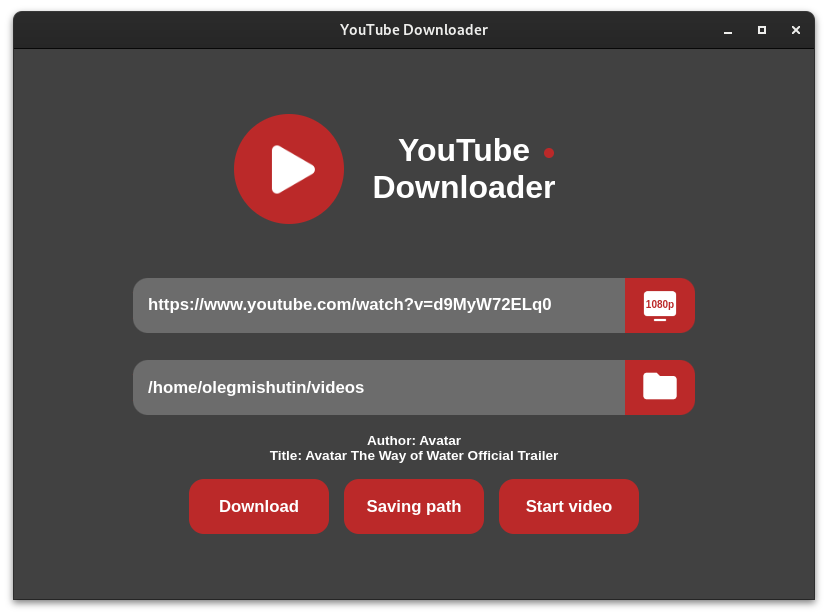
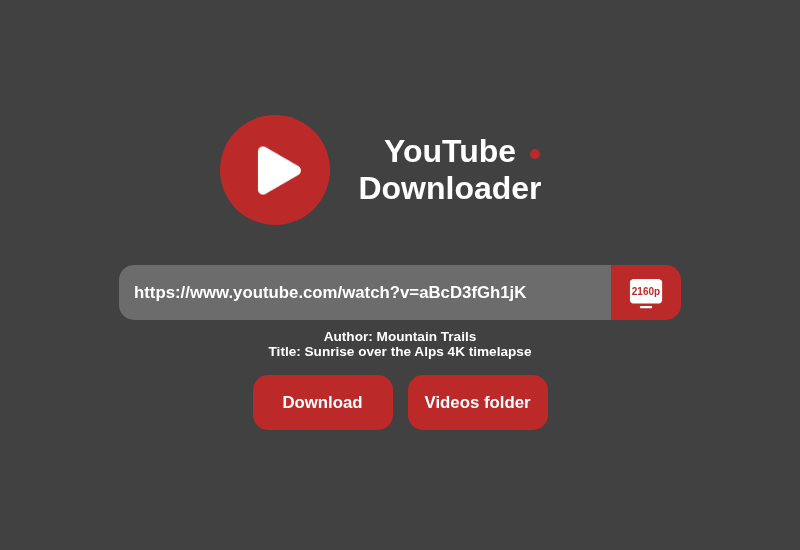
updated README

diff --git a/README.md b/README.md
@@ -1,70 +1,87 @@
 # YouTube Downloader
 
-YouTube Downloader is a simple app that helps you download videos from YouTube in the highest resolution (up to 4k). The only thing you need is a browser, without a browser the app will not
-work.
+YouTube Downloader is a simple app that helps you download videos from YouTube in the highest available resolution
+(up to 4K). The app opens in a **Google Chrome** or **Chromium** window, so one of these browsers must be installed —
+without it the app will not start.
 
 ## Interface
 
-The interface is fully responsive, intuitive and supports light and dark theme.
+The interface is fully responsive, intuitive and supports light and dark themes.
+
 ![](Interface/Image/darkPreview.png)
 ![](Interface/Image/lightPreview.png)
 
+All settings are collected in one window:
+
+![](Interface/Image/settingsDarkPreview.png)
+![](Interface/Image/settingsLightPreview.png)
+
 ## Launch
 
-*Launch via [Python](https://www.python.org/)*
+*Launch via [Python](https://www.python.org/) 3.10 or newer*
 
-1. download the archive of the **main** branch and unzip it.
-2. open unziped folder in the console.
-3. download packages from requirements.txt `pip install -r requirements.txt`
-4. run the command `python main.py`.
+1. Download the archive of the **main** branch and unzip it.
+2. Open the unzipped folder in the console.
+3. Install the packages from requirements.txt: `pip install -r requirements.txt`
+4. Run the command `python main.py`.
 
 ## How to use
 
-To open YouTube:
+### First launch
 
-1. Click on the app icon.
+1. Click the small red dot next to the app's name to open **Settings**.
+2. Set the folder where videos will be saved: type the path into the **Videos folder** field or click the folder
+   button and choose it in the dialog.
+3. Choose the **Dark** or **Light** theme.
+4. Close the settings with the red dot next to the **Settings** title.
 
-To download a video from YouTube:
+The folder and the theme are saved to `settings.json` and restored on the next launch, so you only need to do this
+once.
 
-When you first load the video, you will see the message
-**"Please open https://www.google.com/device and input code ..."** in the console, open the link in the browser and
-register the device. Without this, the app will not work properly.
+### Downloading a video
 
-1. enter the URL link of the video and the path to the folder where you want to save it.
-2. click the download button and wait for the download to finish.
+When you load a video for the first time, the console will show the message
+**"Please open https://www.google.com/device and input code ..."**. Open the link in the browser and register the
+device. Without this, the app will not work properly.
 
-To play the downloaded video:
+1. Paste the video URL into the **Video url** field. The author and the title of the video will appear below.
+2. Click the monitor button to the right of the field and choose a resolution. The highest available resolution is
+   selected by default.
+3. Click **Download** and wait until the status says the video has been downloaded.
 
-1. Click on the "Start video" button.
+### Other actions
 
-To change theme color:
-
-1. Click on the small button next to the app's name.
+* **Videos folder** — opens the folder with downloaded videos.
+* **App icon** — opens YouTube in the browser.
 
 ## Other important things
 
-The video processing progress is displayed in the console. To stop downloading and processing video you need to close
-the console, but then the app logic will not work. So make sure you want to download a big video before doing that.
+The video is saved under its title. Characters that are not allowed in file names are replaced with spaces.
 
-The process of downloading a video that comes with an audio track will not be displayed in the console. The process is
-shown only with videos that are supplied separately from the audio track.
+The video processing progress is displayed in the console. To stop downloading and processing a video you need to
+close the console, but then the app logic will stop working too. So make sure you want to download a big video before
+starting.
 
-Videos that come with an audio track load faster than videos that come without an audio track.
+The download progress of a video that comes with an audio track is not displayed in the console. Progress is shown
+only for videos that are supplied separately from the audio track.
 
-Some videos cannot be downloaded in such a high format as presented on YouTube, it depends on the video.
+Videos that come with an audio track download faster than videos without one, because the latter have to be merged
+with the audio track after downloading.
 
-At the moment, the app has a major disadvantage - it works in **one thread**. Keep this in mind when using the app.
+Some videos cannot be downloaded in as high a resolution as presented on YouTube, it depends on the video.
 
-If you have the dark theme extension enabled in the browser, then the app may have a slightly **different color tint**.
+At the moment, the app has a major disadvantage — it works in **one thread**. Keep this in mind when using the app.
+
+If you have a dark theme extension enabled in the browser, the app may have a slightly **different color tint**.
 
 ## What was used in the development
 
-* [Python3.10.12](https://www.python.org/downloads/release/python-31012/) (Windows version
-  uses [Python3.10.11](https://www.python.org/downloads/release/python-31011/)) and the following libraries:
+* [Python 3.10](https://www.python.org/downloads/) and the following libraries:
     * [Eel](https://github.com/python-eel/Eel) was used to implement the app and communication with the web
       interface.
     * [Pytubefix](https://pypi.org/project/pytubefix/) was used for YouTube video download logic.
-    * [Moviepy](https://github.com/Zulko/moviepy) was used to connect video and audio track.
+    * [MoviePy](https://github.com/Zulko/moviepy) was used to merge video and audio tracks.
+    * [Tkinter](https://docs.python.org/3/library/tkinter.html) was used for the folder selection dialog.
 
 
 * HTML for page markup.
